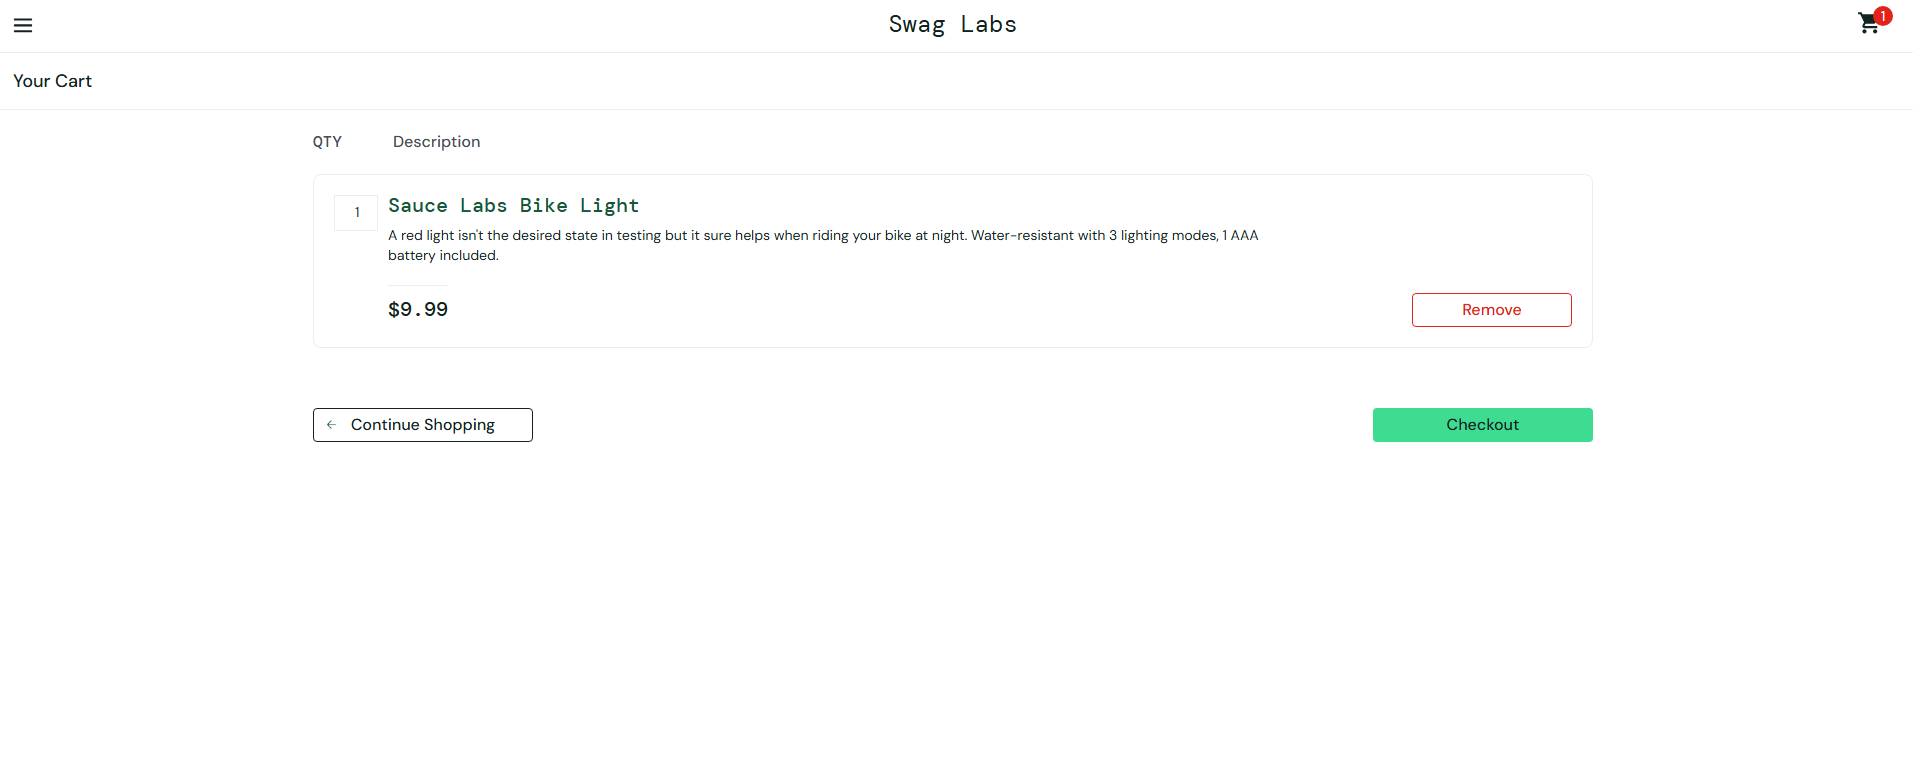
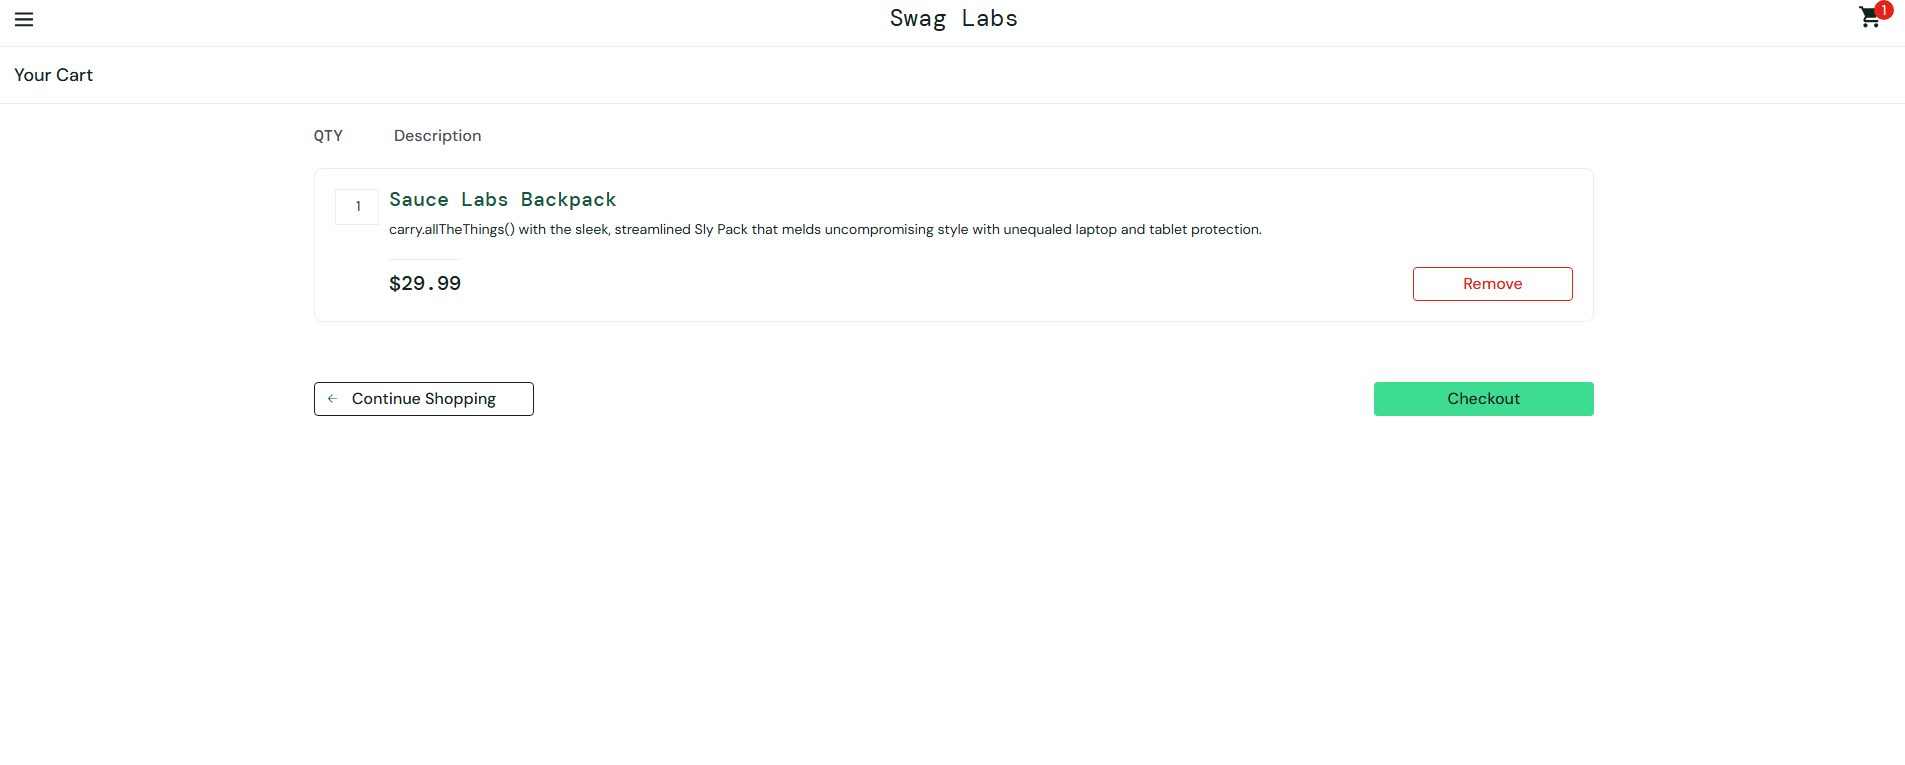
Fix FE-02 evidence and tighten claims

diff --git a/TEST_REPORT.md b/TEST_REPORT.md
@@ -13,6 +13,8 @@
   (see README Known issues).
 - Not completed: Frontend tests run in Chrome only. Automated API test does not delete the
   booking it creates (sandbox resets periodically). UI test flakiness root cause not confirmed.
+  Part 1 did not cover sorting, removing from cart, logout, or the other test accounts
+  (performance_glitch_user, error_user, visual_user).
 
 # Part 1: Frontend Testing (https://www.saucedemo.com)
 Environment: Chrome 155.0.8059.86 (64-bit). Date: 2026-10-28.
@@ -126,7 +128,7 @@ booking and read it back) works at the simplest level. If it fails, nothing else
 ## BUG-01: Checkout overview shows unrounded item total ($59.980000000000004)
 
 **Severity:** Low. Display only: tax and total are calculated correctly, so the
-customer is charged the right amount, but a malformed price is shown at the point of purchase.
+the displayed tax and total are correct, but a malformed price is shown at the point of purchase.
 **Priority suggestion:** P2.
 **Environment:** https://www.saucedemo.com, Chrome 155.0.8059.86 (64-bit), WSL/Windows, 2026-10-28.
 **User:** standard_user / secret_sauce
@@ -156,7 +158,7 @@ correctly as $45.98 / $3.68 / $49.66, so the issue depends on the item combinati
 ### Related observation
 The "Generate PDF order" receipt for the same order (Fleece Jacket + Bike Light) shows
 Item total $59.98, Tax $4.80, Total $64.78, correctly rounded. The defect is confined
-to the Checkout: Overview page display; the order data itself is correct.
+to the Checkout: Overview page display; the order data appears correct.
 Evidence: evidence/part3.pdf (PDF receipt)
 
 ### Evidence
@@ -172,7 +174,7 @@ missing a 2-decimal formatting step that the PDF path has.
 ### Impact
 No incorrect charge, but a visibly wrong price on the final confirmation screen undermines
 customer trust and may cause abandoned checkouts. Could affect any price combination
-whose float sum isn't exactly representable.
+whose floating-point sum doesn't print as a clean 2-decimal value.
 
 # Part 4: Bug Prioritization
 
